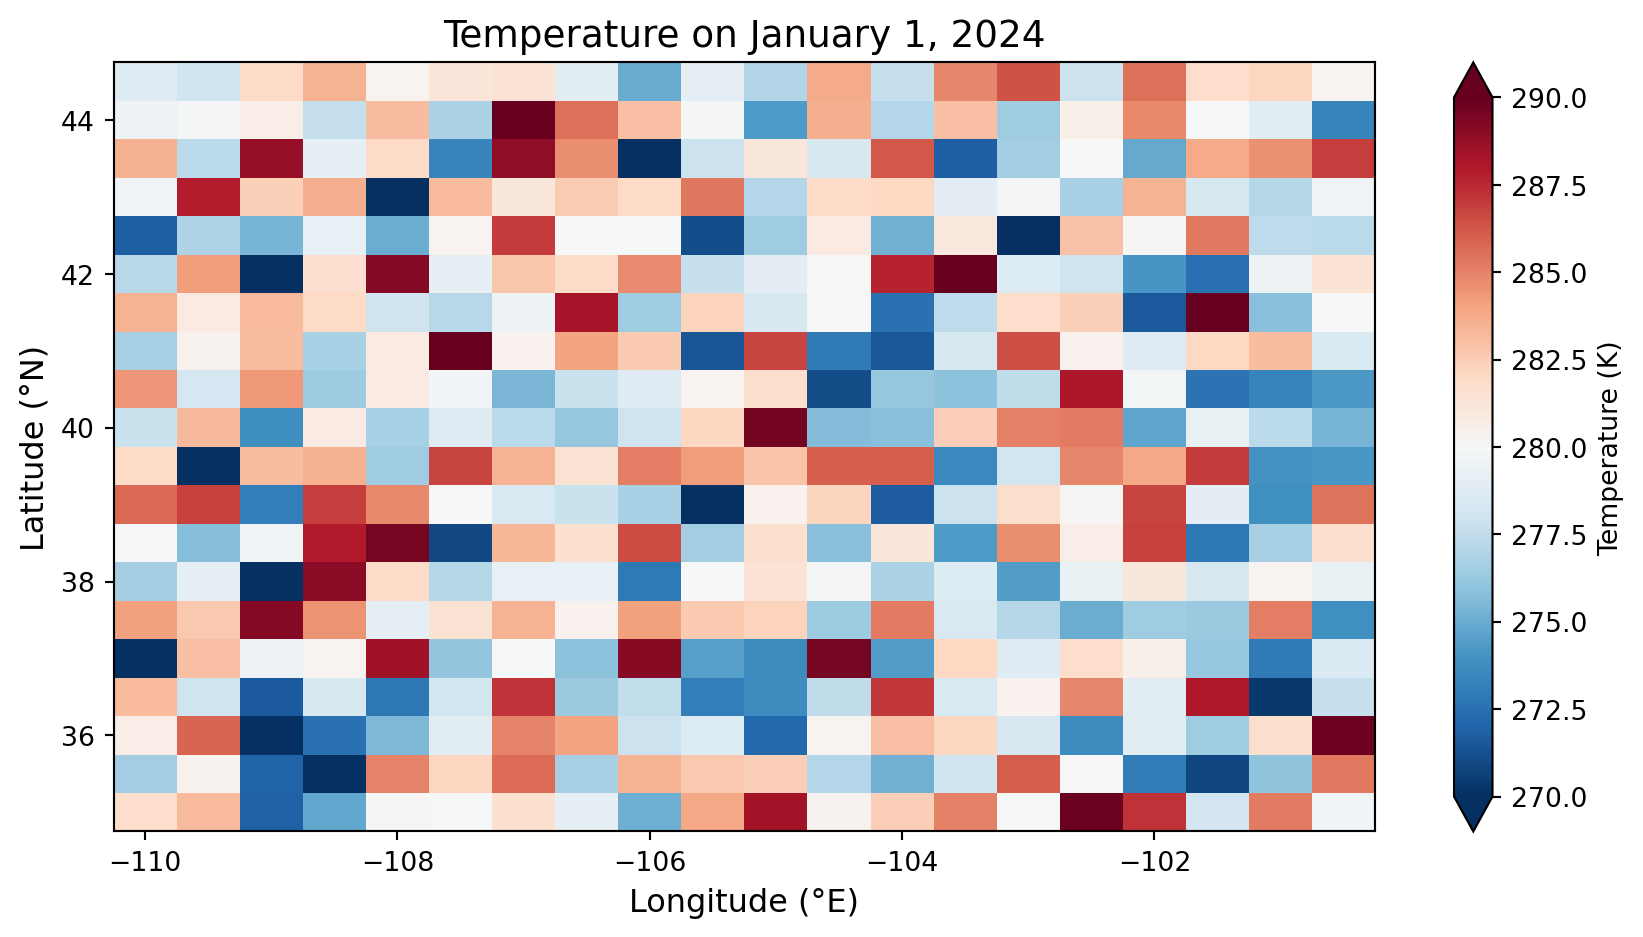
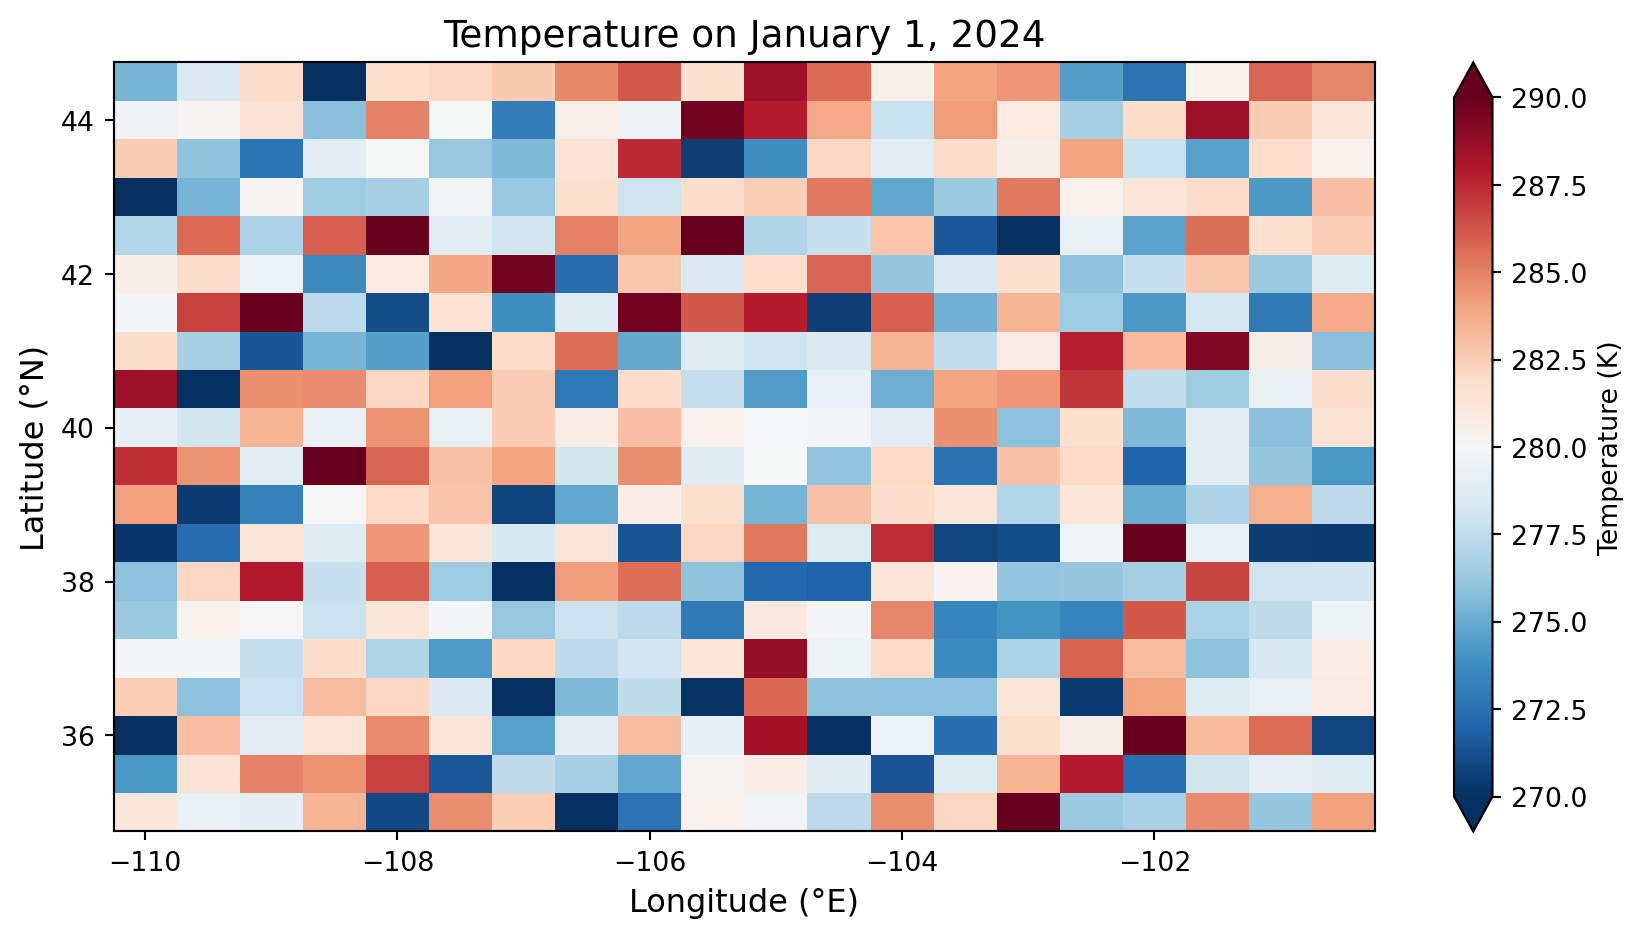
Fix xarray HTML and figures post-rebase

diff --git a/slides/atoc4815-week08-xarray.html b/slides/atoc4815-week08-xarray.html
@@ -386,7 +386,7 @@ xarray:       "Pandas for N-dimensional grids"
 <li><strong>Coordinates:</strong> Values along each dimension</li>
 <li><strong>Attributes:</strong> Metadata (units, long_name, …)</li>
 </ul>
-<div id="65ef1213" class="cell" data-execution_count="1">
+<div id="52bde4fc" class="cell" data-execution_count="1">
 <div class="code-copy-outer-scaffold"><div class="sourceCode cell-code" id="cb10"><pre class="sourceCode numberSource python number-lines code-with-copy"><code class="sourceCode python"><span id="cb10-1"><a href=""></a><span class="im">import</span> numpy <span class="im">as</span> np</span>
 <span id="cb10-2"><a href=""></a><span class="im">import</span> xarray <span class="im">as</span> xr</span>
 <span id="cb10-3"><a href=""></a><span class="im">import</span> pandas <span class="im">as</span> pd</span>
@@ -409,25 +409,25 @@ xarray:       "Pandas for N-dimensional grids"
 <span id="cb10-20"><a href=""></a><span class="bu">print</span>(temp)</span></code></pre></div><button title="Copy to Clipboard" class="code-copy-button"><i class="bi"></i></button></div>
 <div class="cell-output cell-output-stdout">
 <pre><code>&lt;xarray.DataArray (time: 5, lat: 3, lon: 3)&gt; Size: 360B
-array([[[22.54765182, 24.65170493, 20.69807834],
-        [18.8350574 , 18.13718966, 15.70155153],
-        [19.92004831, 20.4510961 , 23.56290784]],
+array([[[23.55163746, 22.72723334, 24.85070888],
+        [24.72517767, 22.63856404, 17.20041887],
+        [15.36022745, 18.50271519, 19.46219858]],
 
-       [[21.92256165, 22.40344784, 24.31706786],
-        [17.91684963, 20.07351273, 17.44564512],
-        [20.06940859, 22.61626189, 19.34267752]],
+       [[17.10814819, 19.79242635, 15.70548783],
+        [15.45450707, 18.15089537, 16.80096762],
+        [17.13913846, 20.00454   , 24.7899643 ]],
 
-       [[15.60430994, 20.58154221, 21.18676201],
-        [23.89475753, 16.19951403, 17.51406324],
-        [23.54016152, 18.09239589, 23.82006189]],
+       [[22.91345805, 15.50346772, 24.0892916 ],
+        [24.89520007, 23.67105664, 24.15889498],
+        [17.93690084, 21.22947325, 20.48170472]],
 
-       [[18.889746  , 20.59456615, 21.19495099],
-        [18.85036928, 19.86330245, 20.220223  ],
-        [17.22064557, 24.01657752, 22.87138598]],
+       [[17.63338156, 19.23951408, 19.013706  ],
+        [21.34394506, 15.62278054, 15.35164758],
+        [20.44987281, 18.04854352, 17.49549642]],
 
-       [[17.33916543, 19.39132491, 23.30940938],
-        [20.96670108, 22.53616948, 16.68147595],
-        [20.40719943, 23.15934314, 19.25092201]]])
+       [[24.25976945, 16.23220866, 21.45421239],
+        [16.03084567, 20.45258195, 19.64962292],
+        [15.60292125, 24.50059125, 18.10476084]]])
 Coordinates:
   * time     (time) datetime64[ns] 40B 2024-01-01 2024-01-02 ... 2024-01-05
   * lat      (lat) int64 24B 40 41 42
@@ -437,7 +437,7 @@ Attributes:
     long_name:  Air Temperature</code></pre>
 </div>
 </div>
-<div id="d1c68fe5" class="cell" data-execution_count="2">
+<div id="a5af0df4" class="cell" data-execution_count="2">
 <div class="code-copy-outer-scaffold"><div class="sourceCode cell-code" id="cb12"><pre class="sourceCode numberSource python number-lines code-with-copy"><code class="sourceCode python"><span id="cb12-1"><a href=""></a><span class="bu">print</span>(<span class="st">"Dimensions:"</span>, temp.dims)</span>
 <span id="cb12-2"><a href=""></a><span class="bu">print</span>(<span class="st">"Shape:"</span>, temp.shape)</span>
 <span id="cb12-3"><a href=""></a><span class="bu">print</span>(<span class="st">"Attributes:"</span>, temp.attrs)</span>
@@ -448,9 +448,9 @@ Shape: (5, 3, 3)
 Attributes: {'units': 'Celsius', 'long_name': 'Air Temperature'}
 First time step:
  &lt;xarray.DataArray (lat: 3, lon: 3)&gt; Size: 72B
-array([[22.54765182, 24.65170493, 20.69807834],
-       [18.8350574 , 18.13718966, 15.70155153],
-       [19.92004831, 20.4510961 , 23.56290784]])
+array([[23.55163746, 22.72723334, 24.85070888],
+       [24.72517767, 22.63856404, 17.20041887],
+       [15.36022745, 18.50271519, 19.46219858]])
 Coordinates:
     time     datetime64[ns] 8B 2024-01-01
   * lat      (lat) int64 24B 40 41 42
@@ -467,7 +467,7 @@ Attributes:
 <section id="dataset-collection-of-dataarrays" class="slide level2 tiny scrollable">
 <h2>Dataset: Collection of DataArrays</h2>
 <p><strong>A Dataset is like a dictionary of DataArrays sharing dimensions:</strong></p>
-<div id="a8abf541" class="cell" data-execution_count="3">
+<div id="493defa1" class="cell" data-execution_count="3">
 <div class="code-copy-outer-scaffold"><div class="sourceCode cell-code" id="cb14"><pre class="sourceCode numberSource python number-lines code-with-copy"><code class="sourceCode python"><span id="cb14-1"><a href=""></a><span class="co"># Create multiple variables</span></span>
 <span id="cb14-2"><a href=""></a>temp_data <span class="op">=</span> <span class="dv">15</span> <span class="op">+</span> <span class="dv">10</span> <span class="op">*</span> np.random.rand(<span class="dv">5</span>, <span class="dv">3</span>, <span class="dv">3</span>)</span>
 <span id="cb14-3"><a href=""></a>precip_data <span class="op">=</span> np.random.exponential(<span class="dv">2</span>, (<span class="dv">5</span>, <span class="dv">3</span>, <span class="dv">3</span>))</span>
@@ -491,35 +491,35 @@ Coordinates:
   * lat            (lat) int64 24B 40 41 42
   * lon            (lon) int64 24B -105 -104 -103
 Data variables:
-    temperature    (time, lat, lon) float64 360B 17.81 18.85 ... 18.08 17.6
-    precipitation  (time, lat, lon) float64 360B 0.03241 0.9416 ... 0.9021 1.064</code></pre>
+    temperature    (time, lat, lon) float64 360B 17.49 22.21 ... 24.68 20.21
+    precipitation  (time, lat, lon) float64 360B 0.2993 0.8005 ... 0.6216 3.254</code></pre>
 </div>
 </div>
-<div id="f161b8ed" class="cell" data-execution_count="4">
+<div id="[phone redacted]" class="cell" data-execution_count="4">
 <div class="code-copy-outer-scaffold"><div class="sourceCode cell-code" id="cb16"><pre class="sourceCode numberSource python number-lines code-with-copy"><code class="sourceCode python"><span id="cb16-1"><a href=""></a><span class="co"># Access variables — dict-style or dot notation</span></span>
 <span id="cb16-2"><a href=""></a><span class="bu">print</span>(ds[<span class="st">'temperature'</span>])</span>
 <span id="cb16-3"><a href=""></a><span class="bu">print</span>(ds.temperature.mean())</span></code></pre></div><button title="Copy to Clipboard" class="code-copy-button"><i class="bi"></i></button></div>
 <div class="cell-output cell-output-stdout">
 <pre><code>&lt;xarray.DataArray 'temperature' (time: 5, lat: 3, lon: 3)&gt; Size: 360B
-array([[[17.8128051 , 18.852942  , 24.32429128],
-        [23.06138021, 17.08667893, 15.5243647 ],
-        [20.34826601, 22.47493362, 16.15106095]],
+array([[[17.490324  , 22.21076548, 21.23732955],
+        [19.58510183, 22.06745808, 24.7216094 ],
+        [21.98315262, 15.04316967, 18.78923581]],
 
-       [[15.04878818, 24.21739685, 16.99415318],
-        [16.06853297, 21.52984882, 21.78569952],
-        [23.79247212, 17.37617411, 22.97360485]],
+       [[16.23181993, 19.52198984, 17.58407723],
+        [24.27041455, 18.4250695 , 20.71833474],
+        [16.67259812, 18.34645951, 17.59760648]],
 
-       [[20.77345744, 15.79693687, 17.02660501],
-        [23.19776308, 16.41296543, 24.23940614],
-        [16.48058602, 21.04285928, 15.37657022]],
+       [[24.82527055, 22.66744519, 18.30940794],
+        [15.62154043, 19.01332148, 18.04784085],
+        [24.47442117, 16.66255132, 21.60588375]],
 
-       [[16.58510024, 19.78620245, 22.46017733],
-        [23.63870625, 19.99411748, 22.98867958],
-        [16.57817512, 16.03803364, 16.98781208]],
+       [[23.96904168, 24.73754571, 17.6431619 ],
+        [23.73979771, 23.57763949, 21.73279962],
+        [20.68156153, 18.68014167, 16.29408078]],
 
-       [[16.96806078, 15.31944899, 16.99423716],
-        [24.10155603, 18.06919834, 24.58473909],
-        [22.31017151, 18.07702786, 17.59829793]]])
+       [[22.05234969, 21.37281292, 18.70721491],
+        [17.62048552, 15.36002462, 17.89823428],
+        [24.16893895, 24.68194753, 20.21288695]]])
 Coordinates:
   * time     (time) datetime64[ns] 40B 2024-01-01 2024-01-02 ... 2024-01-05
   * lat      (lat) int64 24B 40 41 42
@@ -528,7 +528,7 @@ Attributes:
     units:      Celsius
     long_name:  Air Temperature
 &lt;xarray.DataArray 'temperature' ()&gt; Size: 8B
-array(19.44111744)</code></pre>
+array(20.15233032)</code></pre>
 </div>
 </div>
 <div class="tiny">
@@ -636,7 +636,7 @@ array(19.44111744)</code></pre>
 </section>
 <section id="opening-netcdf-files" class="slide level2 tiny scrollable">
 <h2>Opening NetCDF Files</h2>
-<div id="5514c96f" class="cell" data-execution_count="5">
+<div id="9fd1fdc9" class="cell" data-execution_count="5">
 <div class="code-copy-outer-scaffold"><div class="sourceCode cell-code" id="cb24"><pre class="sourceCode numberSource python number-lines code-with-copy"><code class="sourceCode python"><span id="cb24-1"><a href=""></a><span class="co"># Create a sample NetCDF file first (simulating real data)</span></span>
 <span id="cb24-2"><a href=""></a>time <span class="op">=</span> pd.date_range(<span class="st">'2024-01-01'</span>, periods<span class="op">=</span><span class="dv">10</span>, freq<span class="op">=</span><span class="st">'D'</span>)</span>
 <span id="cb24-3"><a href=""></a>lat <span class="op">=</span> np.arange(<span class="dv">35</span>, <span class="dv">45</span>, <span class="fl">0.5</span>)</span>
@@ -690,7 +690,7 @@ Attributes:
 </section>
 <section id="exploring-dataset-contents" class="slide level2 tiny">
 <h2>Exploring Dataset Contents</h2>
-<div id="7c7486b2" class="cell" data-execution_count="6">
+<div id="8bcde5cf" class="cell" data-execution_count="6">
 <div class="code-copy-outer-scaffold"><div class="sourceCode cell-code" id="cb26"><pre class="sourceCode numberSource python number-lines code-with-copy"><code class="sourceCode python"><span id="cb26-1"><a href=""></a><span class="co"># View all variables</span></span>
 <span id="cb26-2"><a href=""></a><span class="bu">print</span>(<span class="st">"Variables:"</span>, <span class="bu">list</span>(ds.data_vars))</span>
 <span id="cb26-3"><a href=""></a></span>
@@ -796,7 +796,7 @@ t2m attributes: {'units': 'K', 'long_name': '2-meter temperature'}</code></pre>
 </section>
 <section id="selection-by-position-.isel" class="slide level2 tiny">
 <h2>Selection by Position: .isel()</h2>
-<div id="71c5d1e6" class="cell" data-execution_count="7">
+<div id="a9510aa5" class="cell" data-execution_count="7">
 <div class="code-copy-outer-scaffold"><div class="sourceCode cell-code" id="cb31"><pre class="sourceCode numberSource python number-lines code-with-copy"><code class="sourceCode python"><span id="cb31-1"><a href=""></a><span class="co"># Select first time step</span></span>
 <span id="cb31-2"><a href=""></a>first_time <span class="op">=</span> ds[<span class="st">'t2m'</span>].isel(time<span class="op">=</span><span class="dv">0</span>)</span>
 <span id="cb31-3"><a href=""></a><span class="bu">print</span>(<span class="st">"First time step:"</span>)</span>
@@ -845,7 +845,7 @@ Attributes:
 </section>
 <section id="selection-by-label-.sel" class="slide level2 tiny">
 <h2>Selection by Label: .sel()</h2>
-<div id="d582e836" class="cell" data-execution_count="8">
+<div id="78460d2f" class="cell" data-execution_count="8">
 <div class="code-copy-outer-scaffold"><div class="sourceCode cell-code" id="cb33"><pre class="sourceCode numberSource python number-lines code-with-copy"><code class="sourceCode python"><span id="cb33-1"><a href=""></a><span class="co"># Select specific date</span></span>
 <span id="cb33-2"><a href=""></a>jan5 <span class="op">=</span> ds[<span class="st">'t2m'</span>].sel(time<span class="op">=</span><span class="st">'2024-01-05'</span>)</span>
 <span id="cb33-3"><a href=""></a><span class="bu">print</span>(<span class="st">"January 5, 2024:"</span>)</span>
@@ -890,7 +890,7 @@ Attributes:
 <section id="nearest-neighbor-selection" class="slide level2 tiny">
 <h2>Nearest Neighbor Selection</h2>
 <p><strong>Problem:</strong> Your coordinates may not exactly match grid points</p>
-<div id="8ec9e17a" class="cell" data-execution_count="9">
+<div id="880d75d4" class="cell" data-execution_count="9">
 <div class="code-copy-outer-scaffold"><div class="sourceCode cell-code" id="cb35"><pre class="sourceCode numberSource python number-lines code-with-copy"><code class="sourceCode python"><span id="cb35-1"><a href=""></a><span class="co"># Boulder coordinates: 40.0150°N, [phone redacted]°W</span></span>
 <span id="cb35-2"><a href=""></a><span class="co"># Grid may not have exactly these values</span></span>
 <span id="cb35-3"><a href=""></a></span>
@@ -996,7 +996,7 @@ ValueError: 0 is not in the time coordinates</code></pre>
 <section id="reductions-along-dimensions" class="slide level2 tiny">
 <h2>Reductions Along Dimensions</h2>
 <p><strong>Specify which dimension(s) to reduce over:</strong></p>
-<div id="7388555e" class="cell" data-execution_count="10">
+<div id="7014d203" class="cell" data-execution_count="10">
 <div class="code-copy-outer-scaffold"><div class="sourceCode cell-code" id="cb42"><pre class="sourceCode numberSource python number-lines code-with-copy"><code class="sourceCode python"><span id="cb42-1"><a href=""></a><span class="co"># Time mean (for each grid point)</span></span>
 <span id="cb42-2"><a href=""></a>time_mean <span class="op">=</span> ds[<span class="st">'t2m'</span>].mean(dim<span class="op">=</span><span class="st">'time'</span>)</span>
 <span id="cb42-3"><a href=""></a><span class="bu">print</span>(<span class="st">"Time-averaged temperature (one value per grid point):"</span>)</span>
@@ -1014,47 +1014,47 @@ ValueError: 0 is not in the time coordinates</code></pre>
 <pre><code>Time-averaged temperature (one value per grid point):
 Shape: (20, 20)
 &lt;xarray.DataArray 't2m' (lat: 20, lon: 20)&gt; Size: 3kB
-array([[282.63279396, 280.85998429, 283.12615992, 279.9380995 ,
-        280.09420726, 282.67012497, 282.34016554, 280.00691416,
-        278.94099662, 281.18037249, 283.67339398, 281.74615107,
-        280.39255671, 284.25103253, 283.32107104, 281.28021772,
-        283.77929587, 282.87236948, 284.54301704, 282.45618245],
-       [280.66403723, 280.71491133, 279.73375222, 281.61176325,
-        281.6306544 , 281.37793948, 282.48242032, 283.0744274 ,
-        280.93047272, 279.83243692, 283.4294185 , 281.02620656,
-        281.25885989, 280.30129109, 282.25536512, 282.24892002,
-        281.58343895, 280.29954893, 283.65375416, 284.92841454],
-       [283.7982612 , 281.17038936, 281.25855961, 277.6335133 ,
-        280.73259771, 283.15684549, 284.81513255, 282.53771241,
-        283.29673446, 283.03342869, 279.59572645, 278.45113059,
-        284.42160818, 282.31609598, 283.4960908 , 282.62699315,
-        279.2846744 , 281.69898659, 281.64621114, 281.0275765 ],
-       [280.81216995, 284.2966867 , 279.90067059, 282.73639489,
-        279.87824915, 280.72942053, 279.69186154, 277.16415347,
-        282.29606908, 282.29445533, 280.47808686, 279.59823346,
-        281.54789697, 281.74493205, 282.14761917, 282.89488986,
-        280.10147117, 286.35294645, 281.55670765, 278.68139558],
+array([[280.28437547, 281.79959688, 279.1703497 , 283.33822628,
+        278.59308399, 280.07210748, 283.26301654, 279.12962114,
+        280.17992464, 282.22124183, 282.01909022, 280.95686645,
+        281.6085457 , 282.62077571, 281.88670715, 282.06045807,
+        280.45006283, 282.60485083, 282.42420118, 282.91615155],
+       [280.89192434, 282.29609057, 283.08882962, 281.84478613,
+        285.28603181, 280.36602638, 280.85421242, 283.32779442,
+        281.6135621 , 281.60517455, 283.07400974, 281.4258422 ,
+        281.38905575, 281.5625826 , 281.65260024, 280.5143992 ,
+        281.73593926, 281.16337032, 282.46533649, 282.78426992],
+       [280.28376534, 279.37189327, 281.86597687, 284.21412178,
+        281.00627238, 281.51463037, 280.13846742, 282.28013682,
+        280.49009045, 282.0185929 , 282.19367933, 278.90747868,
+        283.13744523, 280.24745439, 281.30129871, 280.06928692,
+        282.79406844, 282.58808562, 283.76713294, 280.82639669],
+       [282.61881738, 282.90371441, 282.55686785, 281.33779541,
+        280.83518721, 282.81851175, 283.09926905, 280.57120206,
+        280.29720142, 282.14916179, 284.11355427, 279.86282528,
+        278.19500002, 282.34602511, 281.54763499, 280.09862168,
+        283.89681183, 282.11939201, 281.60096506, 282.53596425],
 ...
-       [280.2340836 , 282.60992836, 284.96870278, 280.48672586,
-        277.85910082, 282.55873322, 279.32026817, 282.15354194,
-        282.38321057, 279.45238449, 280.31279934, 282.30693169,
-        277.19074584, 279.96738491, 281.24969611, 279.69613106,
-        281.43548578, 280.51355316, 280.96999418, 282.42229533],
-       [280.2434925 , 282.19769811, 282.49468116, 282.51085171,
-        281.66902509, 281.29329763, 283.31975766, 282.86410512,
-        278.87973697, 280.85691218, 282.3242022 , 280.59268088,
-        285.12207017, 279.81869818, 279.00999915, 279.96744007,
-        280.51666223, 280.62879089, 282.83397124, 281.50253113],
-       [281.24083948, 281.77231574, 281.73927914, 281.10963197,
-        280.77351627, 281.19958809, 285.22250576, 282.55111504,
-        283.10796189, 280.76386032, 281.24506803, 280.77202727,
-        277.62915344, 281.08524666, 280.77759287, 282.5417009 ,
-        281.17511119, 285.22970241, 281.71673855, 281.96255723],
-       [280.41218868, 282.19472879, 282.23073343, 282.75577055,
-        281.17355914, 284.09605658, 280.99649252, 279.79264622,
-        281.12916161, 279.72311714, 284.34524487, 280.62067918,
-        282.57591893, 282.48076492, 282.74186032, 280.53313784,
-        282.82359111, 281.2114922 , 279.98872141, 282.69926677]])
+       [278.96466568, 280.63319118, 281.74888973, 281.78811541,
+        281.2116557 , 283.70156253, 281.37521442, 281.73171402,
+        281.56822673, 280.39740912, 281.75524541, 280.20791134,
+        280.7529155 , 281.26677677, 282.16603267, 282.53697454,
+        280.81953679, 280.69719488, 282.94845689, 282.68945171],
+       [281.82602157, 282.33746487, 280.06492008, 280.67419323,
+        279.75696889, 281.96203213, 280.12845963, 278.6922665 ,
+        280.59385768, 280.5545712 , 281.90963388, 280.01412021,
+        281.72935803, 281.93434697, 281.70926105, 283.38129854,
+        280.43074966, 279.38473544, 281.04833479, 281.65467657],
+       [278.98455141, 281.92048961, 282.13444878, 280.10767802,
+        280.83935152, 279.93498979, 281.00098131, 279.54381939,
+        281.08047872, 280.61258499, 282.35658308, 281.67616468,
+        285.3595947 , 282.07174199, 281.50257351, 280.74007317,
+        283.84429006, 282.93966428, 281.91188442, 279.89515602],
+       [281.43491551, 282.21088103, 282.16482019, 280.75927997,
+        283.8251874 , 284.18014446, 279.9297008 , 283.49266306,
+        285.11526734, 283.54162513, 280.12135168, 281.58001184,
+        283.4106762 , 281.85731264, 280.24199451, 279.57662854,
+        283.57323652, 281.60626543, 282.60931903, 281.62148079]])
 Coordinates:
   * lat      (lat) float64 160B 35.0 35.5 36.0 36.5 37.0 ... 43.0 43.5 44.0 44.5
   * lon      (lon) float64 160B -110.0 -109.5 -109.0 ... -101.5 -101.0 -100.5
@@ -1063,8 +1063,8 @@ Coordinates:
 
 Spatially-averaged temperature (time series):
 Shape: (10,)
-[279.85219483 280.26431792 280.72491479 280.44748079 281.58488915
- 281.14040465 282.35263371 282.39321354 283.1666186  282.88891099]</code></pre>
+[279.64320556 280.42738486 280.79155192 281.08047491 281.56419319
+ 281.65002479 281.88334862 282.50247283 282.7794634  282.79279001]</code></pre>
 </div>
 </div>
 <div class="fragment tiny">
@@ -1096,7 +1096,7 @@ Shape: (10,)
 <section id="groupby-climatologies-seasonal-averages" class="slide level2 tiny">
 <h2>GroupBy: Climatologies &amp; Seasonal Averages</h2>
 <p><strong>GroupBy allows you to split-apply-combine:</strong></p>
-<div id="7de7eba9" class="cell" data-execution_count="11">
+<div id="943077a5" class="cell" data-execution_count="11">
 <div class="code-copy-outer-scaffold"><div class="sourceCode cell-code" id="cb47"><pre class="sourceCode numberSource python number-lines code-with-copy"><code class="sourceCode python"><span id="cb47-1"><a href=""></a><span class="co"># Create longer dataset for demonstration</span></span>
 <span id="cb47-2"><a href=""></a>time_long <span class="op">=</span> pd.date_range(<span class="st">'2020-01-01'</span>, <span class="st">'2023-12-31'</span>, freq<span class="op">=</span><span class="st">'D'</span>)</span>
 <span id="cb47-3"><a href=""></a>temp_long <span class="op">=</span> <span class="dv">280</span> <span class="op">+</span> <span class="dv">20</span> <span class="op">*</span> np.sin(<span class="dv">2</span> <span class="op">*</span> np.pi <span class="op">*</span> np.arange(<span class="bu">len</span>(time_long)) <span class="op">/</span> <span class="dv">365</span>) <span class="op">+</span> np.random.randn(<span class="bu">len</span>(time_long))</span>
@@ -1119,9 +1119,9 @@ Shape: (10,)
 <div class="cell-output cell-output-stdout">
 <pre><code>Monthly climatology (12 values, one per month):
 &lt;xarray.DataArray 't2m' (month: 12)&gt; Size: 96B
-array([285.38231564, 293.96243411, 298.8833873 , 299.07894731,
-       294.17345381, 285.38960435, 275.25725063, 266.03123598,
-       260.83748726, 260.89298005, 265.9911475 , 275.08636317])
+array([285.28432139, 293.8688337 , 298.90848546, 299.31989568,
+       294.17600401, 285.3447204 , 275.125587  , 266.09010795,
+       260.92356956, 260.84168666, 266.0081471 , 274.94688299])
 Coordinates:
   * month    (month) int64 96B 1 2 3 4 5 6 7 8 9 10 11 12
 
@@ -1129,7 +1129,7 @@ Coordinates:
 
 Seasonal averages:
 &lt;xarray.DataArray 't2m' (season: 4)&gt; Size: 32B
-array([284.53149924, 275.45251321, 297.36011407, 262.55540027])
+array([284.42063033, 275.41334952, 297.44800048, 262.57190974])
 Coordinates:
   * season   (season) object 32B 'DJF' 'JJA' 'MAM' 'SON'</code></pre>
 </div>
@@ -1138,7 +1138,7 @@ Coordinates:
 <section id="computing-anomalies" class="slide level2 tiny">
 <h2>Computing Anomalies</h2>
 <p><strong>Anomaly = Actual - Climatology</strong></p>
-<div id="6d588fe0" class="cell" data-execution_count="12">
+<div id="90fd5ab5" class="cell" data-execution_count="12">
 <div class="code-copy-outer-scaffold"><div class="sourceCode cell-code" id="cb49"><pre class="sourceCode numberSource python number-lines code-with-copy"><code class="sourceCode python"><span id="cb49-1"><a href=""></a><span class="co"># Compute monthly climatology</span></span>
 <span id="cb49-2"><a href=""></a>monthly_clim <span class="op">=</span> ds_long[<span class="st">'t2m'</span>].groupby(<span class="st">'time.month'</span>).mean()</span>
 <span id="cb49-3"><a href=""></a></span>
@@ -1154,8 +1154,8 @@ Coordinates:
 <span id="cb49-13"><a href=""></a><span class="bu">print</span>(<span class="ss">f"Mean anomaly: </span><span class="sc">{</span>anomaly<span class="sc">.</span>mean()<span class="sc">.</span>values<span class="sc">:.6f}</span><span class="ss"> (should be ≈0)"</span>)</span></code></pre></div><button title="Copy to Clipboard" class="code-copy-button"><i class="bi"></i></button></div>
 <div class="cell-output cell-output-stdout">
 <pre><code>Anomalies (first 10 days):
-[-7.23501577 -5.1191346  -4.82552217 -4.42291586 -4.04145684 -5.12954383
- -2.38573106 -1.26979833 -3.06425854 -1.72108143]
+[-5.09059457 -4.58997515 -5.04539307 -5.27379471 -4.05038804 -1.53174711
+ -2.83924833 -3.73575664 -2.46383887 -1.37466647]
 
 ============================================================
 
@@ -1180,7 +1180,7 @@ Mean anomaly: 0.000000 (should be ≈0)</code></pre>
 <section id="built-in-plotting" class="slide level2 tiny">
 <h2>Built-in Plotting</h2>
 <p><strong>xarray has intelligent default plotting:</strong></p>
-<div id="4040fa9b" class="cell" data-fig-height="4" data-fig-width="9" data-execution_count="13">
+<div id="3f694609" class="cell" data-fig-height="4" data-fig-width="9" data-execution_count="13">
 <div class="code-copy-outer-scaffold"><div class="sourceCode cell-code" id="cb51"><pre class="sourceCode numberSource python number-lines code-with-copy"><code class="sourceCode python"><span id="cb51-1"><a href=""></a><span class="im">import</span> matplotlib.pyplot <span class="im">as</span> plt</span>
 <span id="cb51-2"><a href=""></a></span>
 <span id="cb51-3"><a href=""></a><span class="co"># 1D plot (time series)</span></span>
@@ -1208,7 +1208,7 @@ Mean anomaly: 0.000000 (should be ≈0)</code></pre>
 </section>
 <section id="d-spatial-plot" class="slide level2 tiny">
 <h2>2D Spatial Plot</h2>
-<div id="6f23ee42" class="cell" data-fig-height="5" data-fig-width="8" data-execution_count="14">
+<div id="550f5b2b" class="cell" data-fig-height="5" data-fig-width="8" data-execution_count="14">
 <div class="code-copy-outer-scaffold"><div class="sourceCode cell-code" id="cb52"><pre class="sourceCode numberSource python number-lines code-with-copy"><code class="sourceCode python"><span id="cb52-1"><a href=""></a><span class="co"># Select one time step and plot</span></span>
 <span id="cb52-2"><a href=""></a>ds[<span class="st">'t2m'</span>].isel(time<span class="op">=</span><span class="dv">0</span>).plot()</span>
 <span id="cb52-3"><a href=""></a>plt.title(<span class="st">'Temperature on January 1, 2024'</span>)</span>
@@ -1225,7 +1225,7 @@ Mean anomaly: 0.000000 (should be ≈0)</code></pre>
 </section>
 <section id="customizing-plots" class="slide level2 tiny">
 <h2>Customizing Plots</h2>
-<div id="2361d313" class="cell" data-fig-height="5" data-fig-width="9" data-execution_count="15">
+<div id="3be1ea63" class="cell" data-fig-height="5" data-fig-width="9" data-execution_count="15">
 <div class="code-copy-outer-scaffold"><div class="sourceCode cell-code" id="cb53"><pre class="sourceCode numberSource python number-lines code-with-copy"><code class="sourceCode python"><span id="cb53-1"><a href=""></a><span class="co"># More control over appearance</span></span>
 <span id="cb53-2"><a href=""></a>fig, ax <span class="op">=</span> plt.subplots(figsize<span class="op">=</span>(<span class="dv">9</span>, <span class="dv">5</span>))</span>
 <span id="cb53-3"><a href=""></a></span>